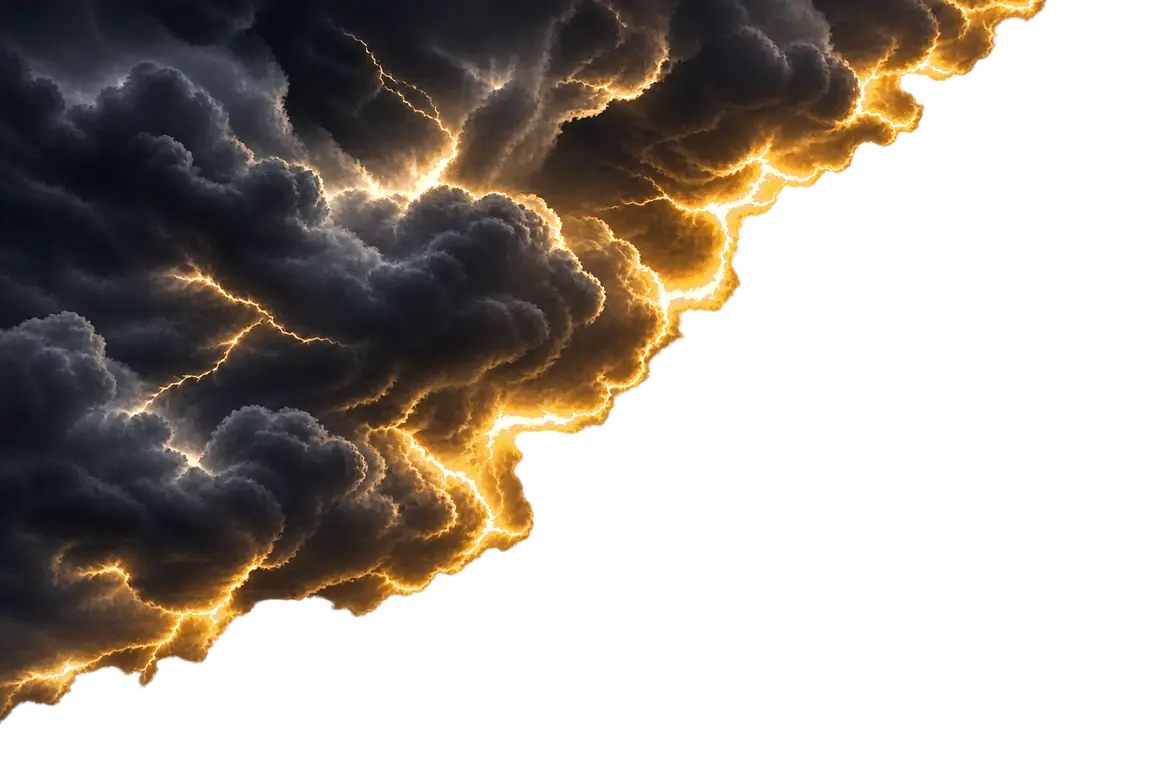
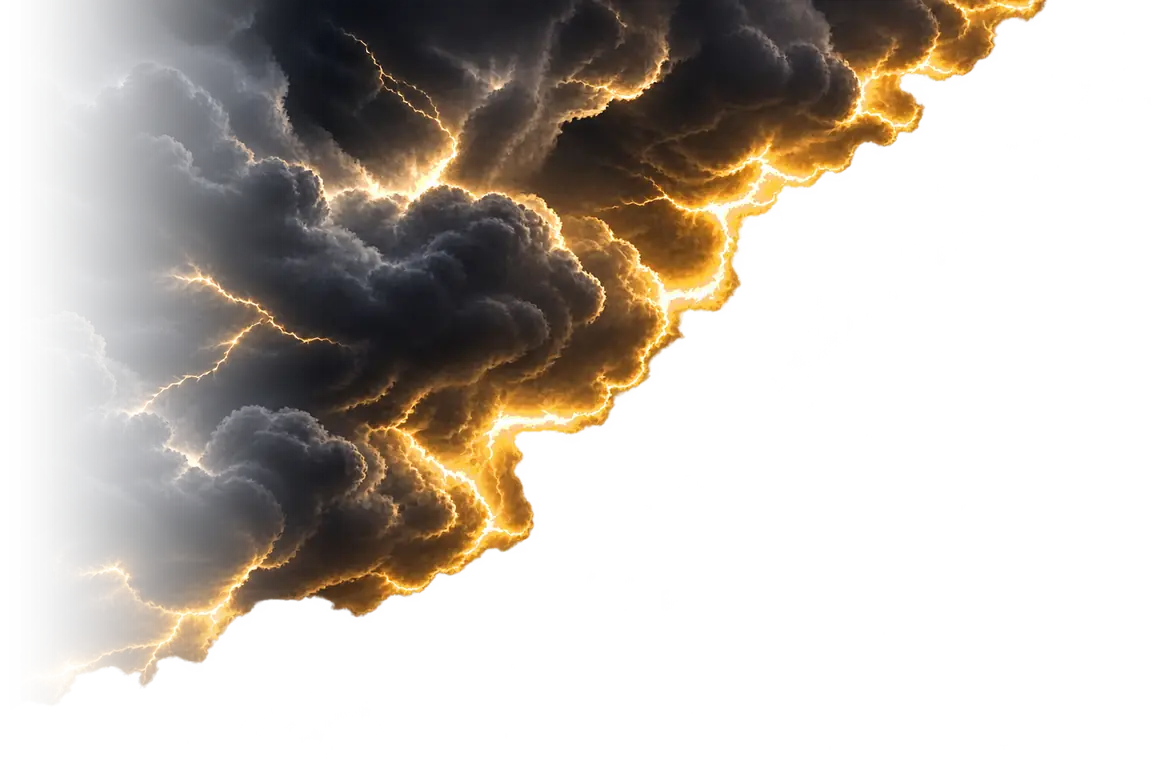
fix(mahjong): 神掌左右家的雲跟著手展開：進場那角一大片、撕裂邊順著手的斜線推開，另一角只留淡雲；雲圖左邊淡出，不露直切邊

Changed region(s): [[0.0, 0.0, 0.25, 0.9375]]

diff --git a/lib/mahjong/fx/rulaiFx.ts b/lib/mahjong/fx/rulaiFx.ts
@@ -199,6 +199,24 @@ export class RulaiCanvas {
     }
     x.setTransform(dpr, 0, 0, dpr, 0, 0); x.globalAlpha = 1; x.globalCompositeOperation = "source-over";
   }
+  /**
+   * 左右家的雲（老闆 2026-11-06：雲要跟著手展開）：手進場那一角一大片雲，雲的撕裂邊順著手衝下來的斜線，手衝出時沿法線往外推開（像破雲而出）；
+   * 另一角只留一小片淡雲陪襯。雲圖的上、左兩邊（有雲碰到圖邊）一律放在畫面外，畫面上看不到直切邊。上家是下家的左右鏡像
+   */
+  private drawSideCloud(cloud: Src, ms: number, cIn: number, open: number, blast: number, cFade: number) {
+    const { x, dpr } = this, { W, H, u, px, py, rel } = this.g, t = RULAI_TL, mir = rel === 3;
+    const iw = widthOf(cloud), ih = heightOf(cloud), TEAR = Math.atan2(0.88 * ih, -0.9 * iw); // 原圖撕裂邊從右上斜到左下
+    // 以下用「下家」的座標算（上家左右鏡像）
+    const PX = mir ? W - px : px, fx = -Math.sin(SIDE + Math.PI / 2) * 1, fy = Math.cos(SIDE + Math.PI / 2) * -1; // 下家指尖方向（往左下）
+    const ty = 0.14 * H, tq = (py - ty) / fy, qx = Math.min(W * 1.02, PX - fx * tq), nx = -fy, ny = fx; // 撕裂邊經過 (qx, ty)；雲在撕裂邊的左上側
+    const gap = u * (0.02 + 0.1 * open + 0.16 * inC(seg(ms, t.rush, t.hit)) + 0.22 * blast), slide = (1 - cIn) * u * 0.6;
+    const X = qx + nx * gap - fx * slide, Y = ty + ny * gap - fy * slide, th = Math.atan2(fy, fx) - TEAR, cw = W * 0.75 * (1 + blast * 0.12), ch = (cw * ih) / iw;
+    const place = (cxp: number, cyp: number, ang: number) => { const c = Math.cos(ang), sn = Math.sin(ang); if (mir) x.setTransform(-c * dpr, sn * dpr, sn * dpr, c * dpr, (W - cxp) * dpr, cyp * dpr); else x.setTransform(c * dpr, sn * dpr, -sn * dpr, c * dpr, cxp * dpr, cyp * dpr); };
+    x.globalAlpha = cFade * (1 - blast * 0.5); place(X, Y, th); x.drawImage(cloud, -0.45 * cw, -0.44 * ch, cw, ch);
+    // 另一角：小、淡，只陪襯（上、左兩邊在畫面外）
+    const fw = W * 0.3, fh = (fw * ih) / iw; x.globalAlpha = cFade * 0.42 * (1 - blast * 0.6); place(0, 0, 0); x.drawImage(cloud, -fw * (0.28 + 0.25 * blast), lerp(-fh, -fh * 0.2, cIn) - blast * fh * 0.4, fw, fh);
+    x.setTransform(dpr, 0, 0, dpr, 0, 0); x.globalAlpha = 1;
+  }
   draw(ms: number) {
     const { x, dpr, art, spark, gl, wave, fly, shadow, D } = this, { W, H, u, px, py } = this.g, tl = RULAI_TL, t = ms / 1000, hit = tl.hit, A = ms - hit, S = this.scale;
     const hand = art["hand-v4"], cloud = art["clouds-v4"], crater = art["crater-v4"], fis = art.fissures, fisG = art["fis-glow"], jets = art["light-jets"], rays = art["light-rays"], rubble = art.rubble, dust = art.dust;
@@ -248,7 +266,8 @@ export class RulaiCanvas {
       if (ms >= hit) this.warp(hand, P, { lighter: true, alpha: (1 - seg(A, 30, 460)) * 0.32, strip, n: 12 });
     }
     // ---- 雲（蓋住手的遠端，手像是從雲裡伸出來）；雲只有半邊，鏡射畫另一半 ----
-    if (cFade > 0) {
+    if (cFade > 0 && this.slant) this.drawSideCloud(cloud, ms, cIn, open, blast, cFade);
+    else if (cFade > 0) {
       const cw = W * 0.68 * (1 + blast * 0.15), ch = (cw * heightOf(cloud)) / widthOf(cloud), // 照原圖比例，不拉伸
         ox = W * 0.01 + (W * 0.15 + W * 0.3 * blast) * open, oy = lerp(-ch, 0, cIn) - blast * H * 0.22, cx = this.slant ? W / 2 : this.hx; // 左右家：雲留在兩個上角，手從胡牌者那側的雲後面伸出來
       x.globalAlpha = cFade * (1 - blast * 0.55); x.drawImage(cloud, cx - ox - cw, oy, cw, ch);
